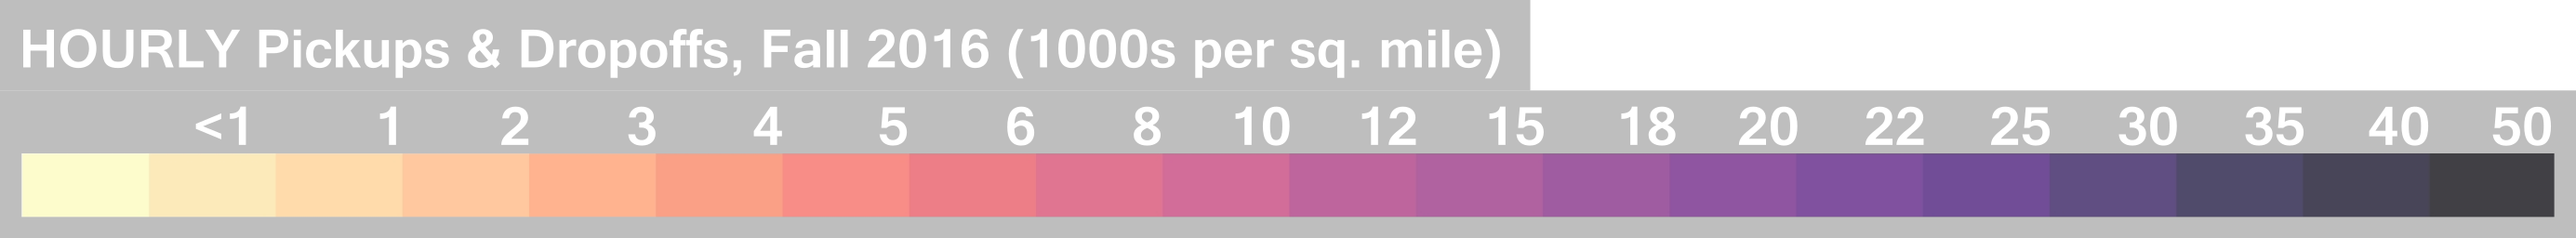
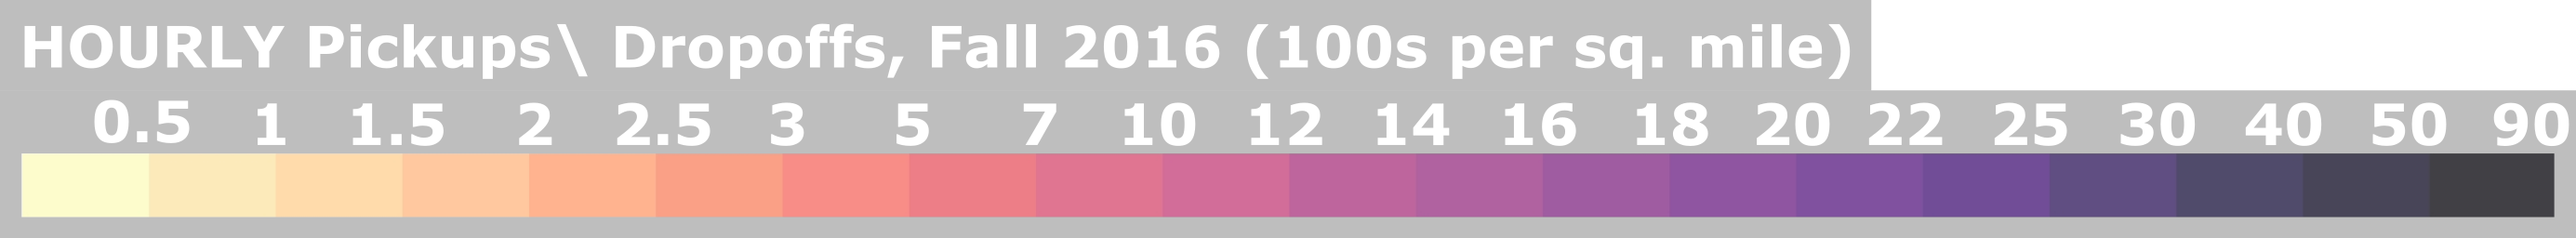
revert to correct pudo per sqmi units and fix legend

Changed region(s): [[0.0, 0.0, 0.7451, 0.4062], [0.3415, 0.4375, 1.0, 0.625], [0.031, 0.4062, 0.3105, 0.625]]

diff --git a/lib/main.bundle.js b/lib/main.bundle.js
@@ -28683,16 +28683,9 @@ var mymap = new mapboxgl.Map({
 var skipTazs = new Set([384, 385, 313, 305]);
 var weekdays = ['Mondays', 'Tuesdays', 'Wednesdays', 'Thursdays', 'Fridays', 'Saturdays', 'Sundays'];
 
-var colorRamp1 = [[10, '#FBFCBD'], [20, '#FCE3A7'], [30, '#FFCD8F'], [40, '#FFB57D'], [50, '#FF9C6B'], [75, '#FA815F'], [100, '#F5695F'], [125, '#E85462'], [150, '#D6456B'], [175, '#C23C76'], [200, '#AB337D'], [225, '#942B7F'], [250, '#802482'], [300, '#6A1C80'], [350, '#55157D'], [400, '#401073'], [500, '#291057'], [750, '#160D38'], [1000, '#0A081F'], [1800, '#000005']];
+var colorRampDaily = [[.5, '#FBFCBD'], [1, '#FCE3A7'], [1.5, '#FFCD8F'], [2, '#FFB57D'], [2.5, '#FF9C6B'], [3, '#FA815F'], [5, '#F5695F'], [7, '#E85462'], [10, '#D6456B'], [12, '#C23C76'], [14, '#AB337D'], [16, '#942B7F'], [18, '#802482'], [20, '#6A1C80'], [25, '#55157D'], [30, '#401073'], [35, '#291057'], [40, '#160D38'], [50, '#0A081F'], [90, '#000005']];
 
-var colorRamp2 = [];
-for (var zz = 2; zz < colorRamp1.length; zz++) {
-  colorRamp2[zz - 2] = [colorRamp1[zz][0], colorRamp1[colorRamp1.length - zz - 1][1]];
-}
-
-var colorRamp3 = [[0, '#208'], [60, '#44c'], [150, '#4a4'], [350, '#ee4'], [700, '#f46'], [1200, '#c00']];
-
-var taColorRamp = colorRamp1;
+var colorRampHourly = [[.5, '#FBFCBD'], [1, '#FCE3A7'], [1.5, '#FFCD8F'], [2, '#FFB57D'], [2.5, '#FF9C6B'], [3, '#FA815F'], [5, '#F5695F'], [7, '#E85462'], [10, '#D6456B'], [12, '#C23C76'], [14, '#AB337D'], [16, '#942B7F'], [18, '#802482'], [20, '#6A1C80'], [22, '#55157D'], [25, '#401073'], [30, '#291057'], [40, '#160D38'], [50, '#0A081F'], [90, '#000005']];
 
 // totals by day of week
 var totalPickups = [0, 0, 0, 0, 0, 0, 0];
@@ -28795,14 +28788,15 @@ exports.default = PitchToggle;
 
 function getColor(numTrips) {
   var i = void 0;
-  for (i = 0; i < taColorRamp.length; i++) {
-    if (numTrips < taColorRamp[i][0]) return taColorRamp[i][1];
+  for (i = 0; i < colorRampDaily.length; i++) {
+    if (numTrips < colorRampDaily[i][0]) return colorRampDaily[i][1];
   }
-  return taColorRamp[i - 1][1];
+  return colorRampDaily[i - 1][1];
 }
 
 var neighborhood = [];
 var taz_acres = [];
+var taz_sqmi = [];
 
 // Create one giant GeoJSON layer. This should really be done in PostGIS, but I'm rushing.
 // See http://www.postgresonline.com/journal/archives/267-Creating-GeoJSON-Feature-Collections-with-JSON-and-PostGIS-functions.html
@@ -28828,6 +28822,7 @@ function buildTazDataFromJson(tazs, options) {
 
           neighborhood[taz.taz] = taz.nhood;
           taz_acres[taz.taz] = 640.0 * taz.sq_mile;
+          taz_sqmi[taz.taz] = taz.sq_mile;
 
           var json = {};
           json['type'] = 'Feature';
@@ -28837,14 +28832,15 @@ function buildTazDataFromJson(tazs, options) {
           if (taz.taz in tripTotals) {
             var trips = tripTotals[parseInt(taz.taz)][d];
             numTrips = trips[direction];
-            numTrips = TRIP_SCALING_FACTOR * numTrips / taz_acres[taz.taz];
+            numTrips = numTrips / (taz_sqmi[taz.taz] * 1000);
             //shade = getColor(numTrips);
             //if (!shade) shade = '#222';
           }
           json['properties'] = {
             taz: taz.taz,
             //shade: shade,
-            trips: numTrips
+            trips: numTrips,
+            htrips: numTrips * 30
           };
           fulljson['features'].push(json);
         }
@@ -28875,7 +28871,7 @@ var paintZone3D = {
   'fill-extrusion-opacity': 1.0,
   'fill-extrusion-color': '#6ff',
   'fill-extrusion-height': {
-    property: 'trips',
+    property: 'htrips',
     type: 'identity'
   }
 };
@@ -28908,7 +28904,7 @@ function addTazLayer(tazs) {
       'fill-extrusion-opacity': 1.0,
       'fill-extrusion-color': {
         property: 'trips',
-        stops: taColorRamp
+        stops: colorRampDaily
       },
       'fill-extrusion-height': 0
     }
@@ -29374,6 +29370,11 @@ function sliderChanged(index) {
 function switchToHourlyView(index) {
   var hourData = loadHourlyData(index);
   mymap.getSource('taz-source').setData(hourData);
+  if (index == 0) {
+    mymap.setPaintProperty('taz', 'fill-extrusion-color', { property: 'trips', stops: colorRampDaily });
+  } else {
+    mymap.setPaintProperty('taz', 'fill-extrusion-color', { property: 'trips', stops: colorRampHourly });
+  }
 }
 
 // update map with values for specific hour
@@ -29390,14 +29391,20 @@ function loadHourlyData(hour) {
       var taz = item.properties.taz;
 
       var trips = cachedHourlyData[day][hour][chosenDir][taz];
-      var scaledTrips = TRIP_SCALING_FACTOR * trips / taz_acres[taz];
+      var scaledTrips = void 0;
+      if (hour == 0) {
+        scaledTrips = trips / (taz_sqmi[taz] * 1000); //daily
+      } else {
+        scaledTrips = trips / (taz_sqmi[taz] * 100); //hourly
+      }
       //let shade = getColor(scaledTrips);
       //if (!shade) shade = '#444';
 
       item.properties = {
         taz: taz,
         //shade: shade,
-        trips: scaledTrips
+        trips: scaledTrips,
+        htrips: scaledTrips * 30
       };
     }
   } catch (err) {
@@ -29472,8 +29479,8 @@ function clickToggleHelp() {
 // Update all colors based on trip totals
 function updateColors() {
   if (!mapIs2D) {
-    mymap.setPaintProperty('taz', 'fill-extrusion-height', { property: 'trips', type: 'identity' });
-    mymap.setPaintProperty('taz-selected', 'fill-extrusion-height', { property: 'trips', type: 'identity' });
+    mymap.setPaintProperty('taz', 'fill-extrusion-height', { property: 'htrips', type: 'identity' });
+    mymap.setPaintProperty('taz-selected', 'fill-extrusion-height', { property: 'htrips', type: 'identity' });
   }
 
   if (app.sliderValue == 0) {
@@ -29537,8 +29544,8 @@ function buildDailyDetails(json) {
       }
 
       // save values -- using 3hr index offset
-      cachedHourlyData[_day][time_index]['dropoffs'][taz] = 8 * dropoff; // 8*cheating to make colors pop
-      cachedHourlyData[_day][time_index]['pickups'][taz] = 8 * pickup;
+      cachedHourlyData[_day][time_index]['dropoffs'][taz] = dropoff;
+      cachedHourlyData[_day][time_index]['pickups'][taz] = pickup;
 
       // save summary daily values
       dailyTotals[_day][time]['dropoffs'] += dropoff;
